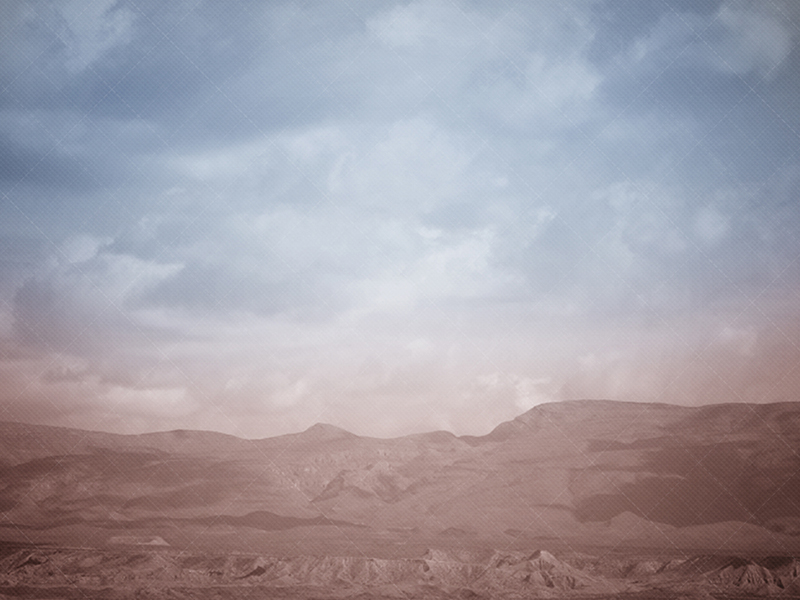
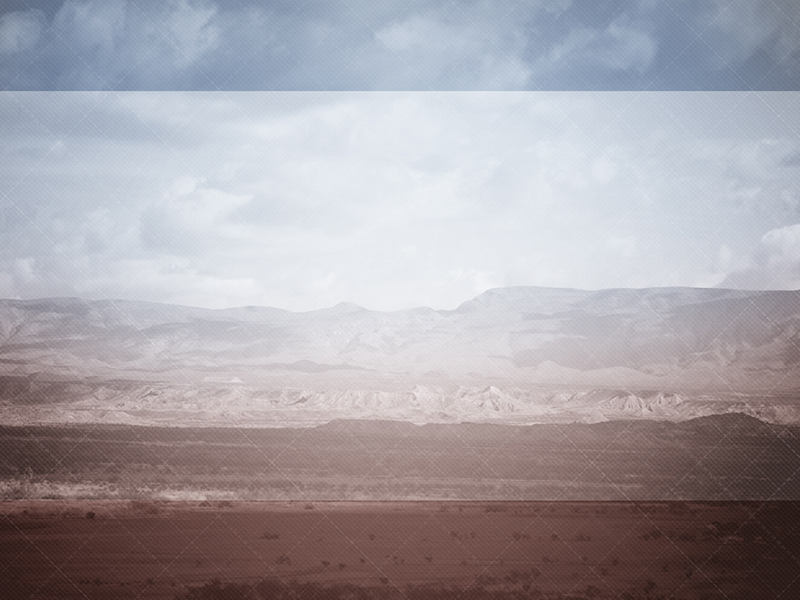
fixed mobile

diff --git a/public_html/assets/styles/main.css b/public_html/assets/styles/main.css
@@ -45,7 +45,7 @@ padding-bottom: 12rem;
 	z-index: -1;
 	background-position: center top;
 	background-repeat: no-repeat;
-	background-size: 120% auto;
+	overflow: hidden;
 }
 /*xs to lg*/
 @media(min-width: 769px){
